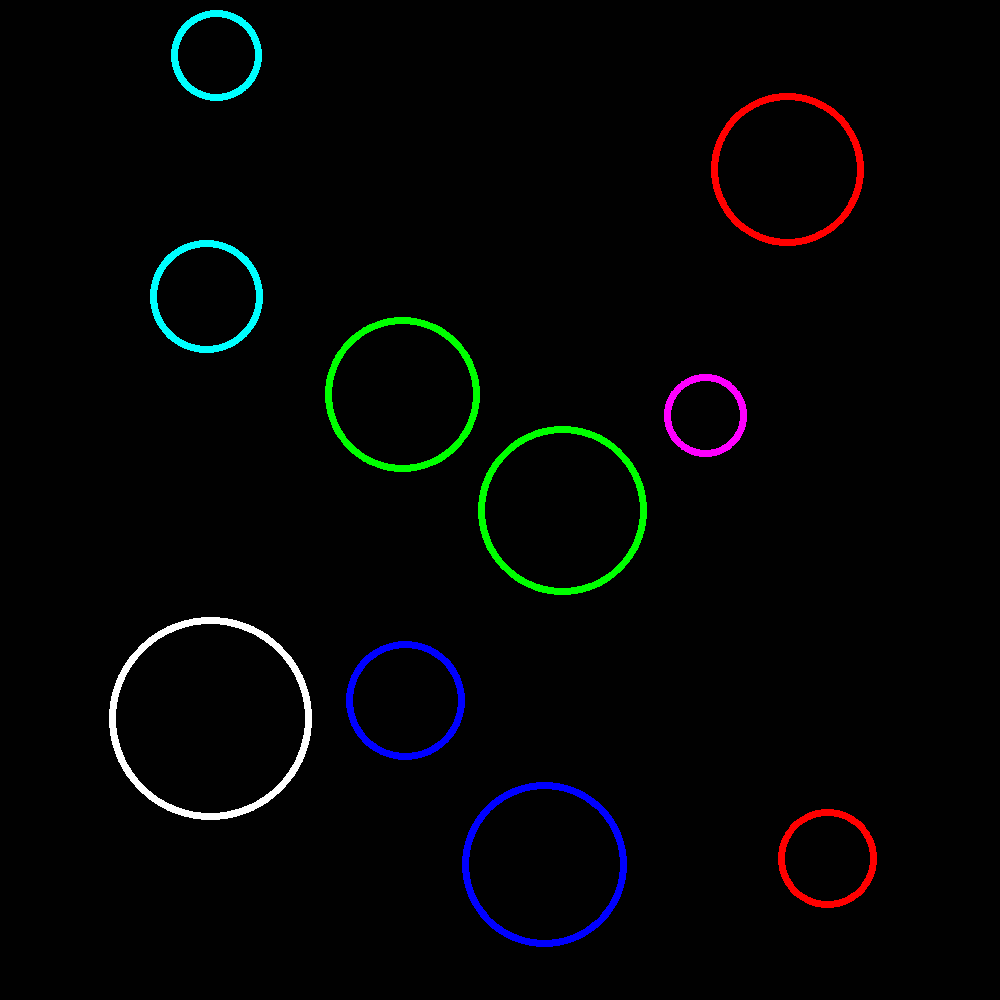
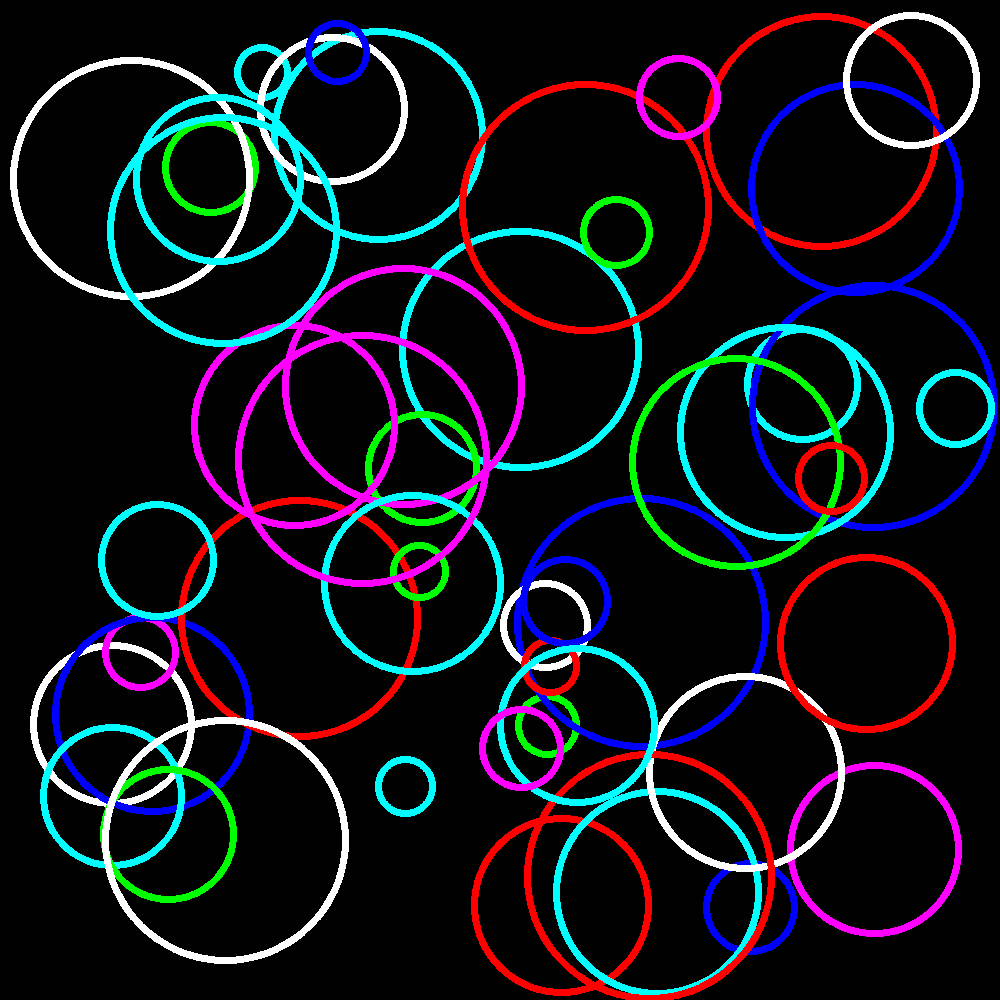
change

diff --git a/Generator.py b/Generator.py
@@ -3,14 +3,14 @@ import numpy as np
 import random
 
 IMAGE_SIZE = 1000
-PIECES = 6
+PIECES = 5
 COLORS = [(0, 0, 255), (0, 255, 0), (255, 0, 0),
           (255, 255, 0), (255, 255, 0), (255, 0, 255), (255, 255, 255)]
 SHAPES = ["C"]
 MIN_SIZE = 50
 MAX_SIZE = 250
-THRESHOLD1 = 10
-THRESHOLD2 = 1000
+NUMBER_OF_RANDOM_SHAPES = 5
+
 
 grid = np.ones((IMAGE_SIZE, IMAGE_SIZE, 3), dtype=np.uint8)
 for i in range(1, PIECES):
@@ -20,7 +20,16 @@ for i in range(1, PIECES):
             (IMAGE_SIZE, i * IMAGE_SIZE // PIECES), (255, 255, 255), 1)
 
 image = np.ones((IMAGE_SIZE, IMAGE_SIZE, 3), dtype=np.uint8)
-for i in range(10):
+
+tile_size = IMAGE_SIZE / PIECES
+for i in range(0, tile_size, IMAGE_SIZE + 1):
+    for j in range(0, tile_size, IMAGE_SIZE + 1):
+        color = COLORS[random.randrange(0, len(COLORS))]
+        shape = SHAPES[random.randrange(0, len(SHAPES))]
+        size = random.randint(MIN_SIZE, MAX_SIZE)
+        pass
+
+for i in range(NUMBER_OF_RANDOM_SHAPES):
     color = COLORS[i % len(COLORS)]
     shape = SHAPES[i % len(SHAPES)]
     size = random.randint(MIN_SIZE, MAX_SIZE)
@@ -37,32 +46,6 @@ for i in range(10):
     elif shape == "T":
         pass
 
-grid_edges = cv.Canny(grid, THRESHOLD1, THRESHOLD2)
-grid_contours, _ = cv.findContours(
-    grid_edges, cv.RETR_EXTERNAL, cv.CHAIN_APPROX_SIMPLE)
-untouched_tile_size = max([cv.contourArea(grid_contour)
-                          for grid_contour in grid_contours])
-
-mixed_image = cv.bitwise_or(grid, image)
-mixed_image = cv.cvtColor(mixed_image, cv.COLOR_BGR2GRAY)
-cv.imshow("Image", mixed_image)
-cv.waitKey(0)
-
-edges = cv.Canny(mixed_image, THRESHOLD1, THRESHOLD2)
-cv.imshow("Image", edges)
-cv.waitKey(0)
-
-contours, _ = cv.findContours(edges, cv.RETR_EXTERNAL, cv.CHAIN_APPROX_SIMPLE)
-cv.drawContours(grid, contours, -1, (255, 255, 255), 1)
-cv.imshow("Image", grid)
-cv.waitKey(0)
-
-untouched = []
-for contour in contours:
-    if cv.contourArea(contour) == untouched_tile_size:  # TODO Stvorec
-        untouched.append(contour)
-
-print(len(untouched))
 cv.imshow("Image", image)
 cv.waitKey(0)
 cv.destroyAllWindows()
